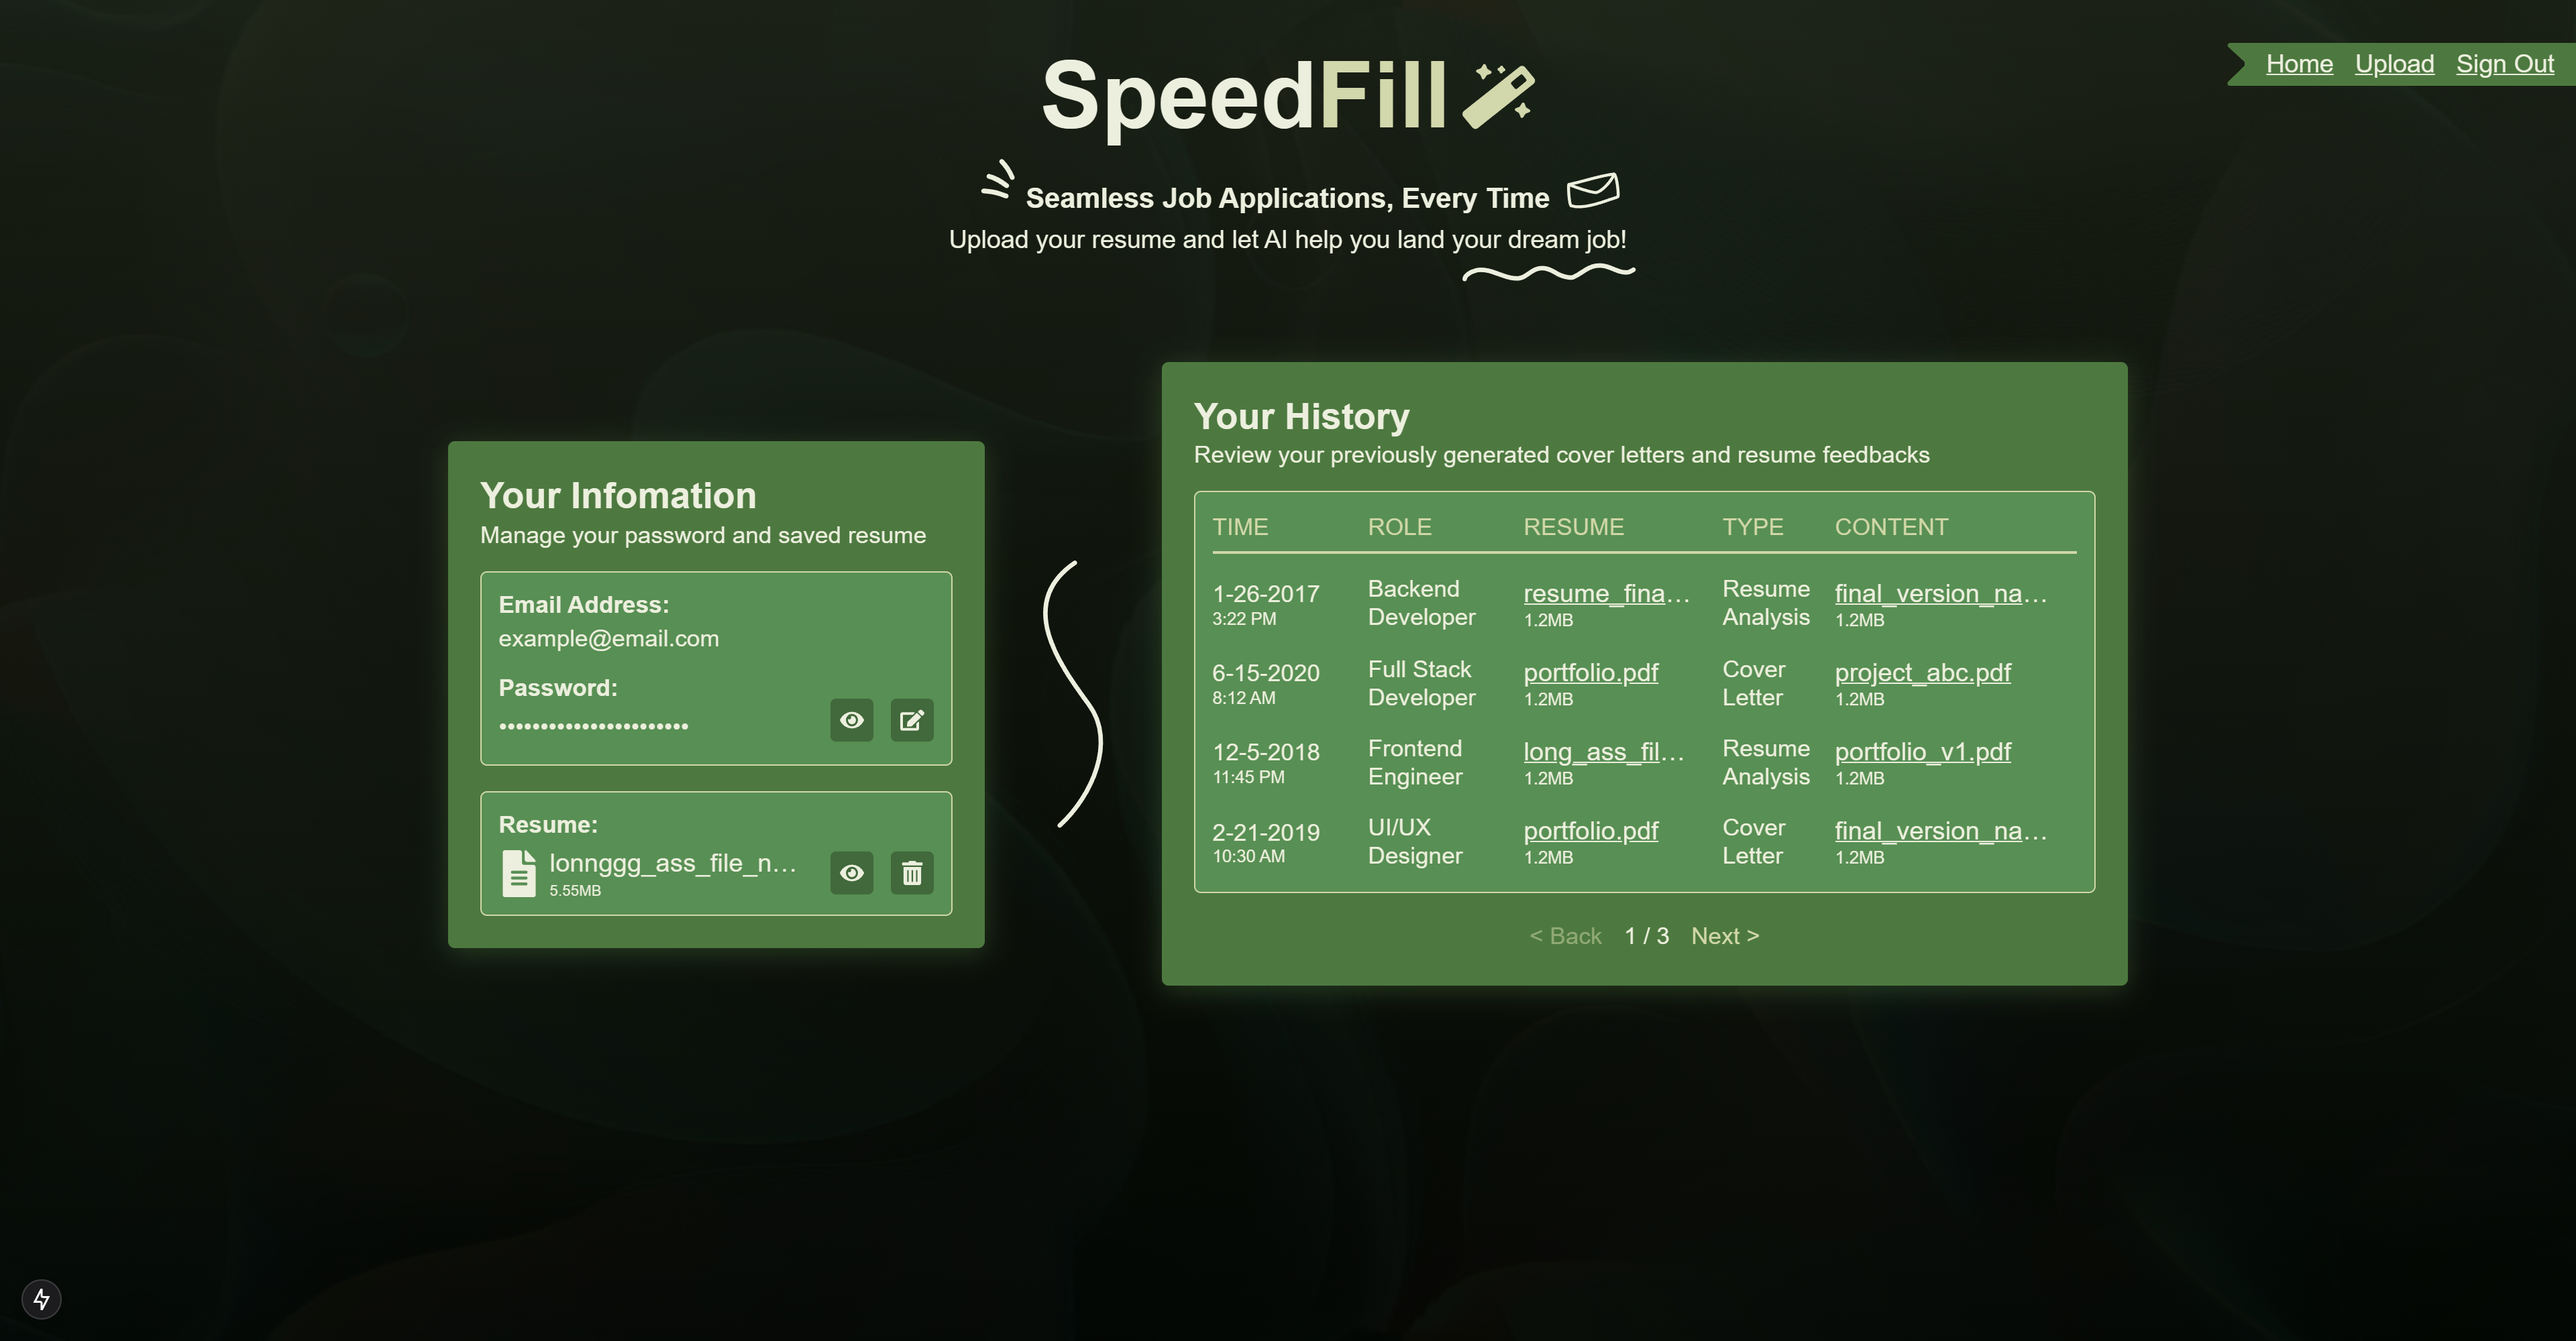
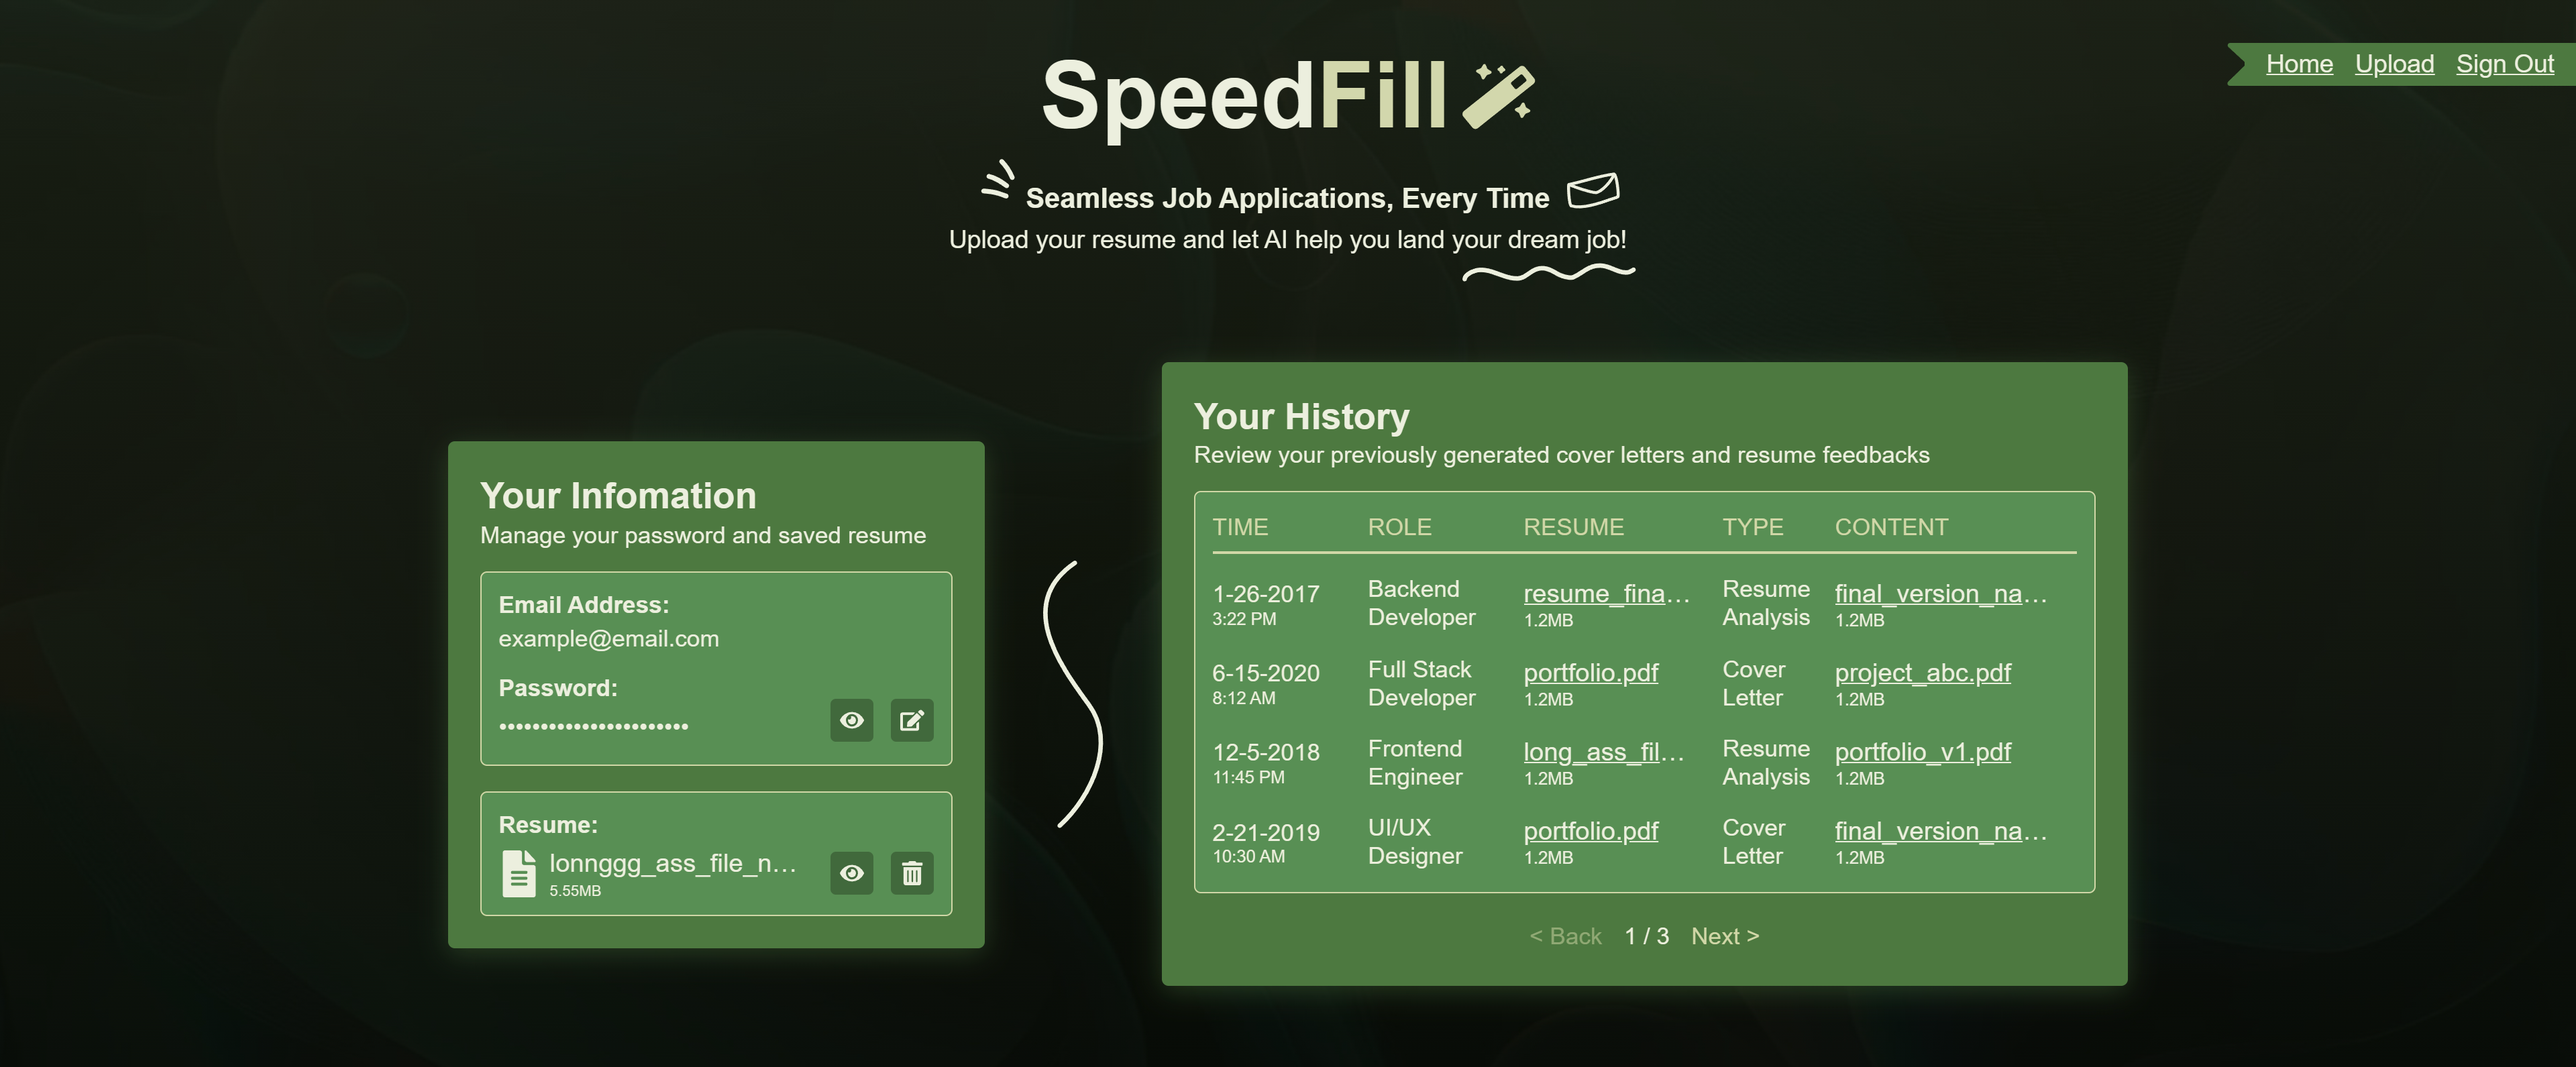
Adjust screenshot dimensions

diff --git a/README.md b/README.md
@@ -21,12 +21,8 @@ With SpeedFill, users can upload their resumes, input job descriptions, and get 
 
 ## 📸 Screenshots
 
-### Upload Interface
-
 ![Upload Interface](public/screenshots/upload.png)
 _Friendly interface for uploading resumes and specifycing job details._
-
-### Dashboard
 
 ![Dashboard](public/screenshots/dashboard.png)
 _Track your application history and access past documents._
